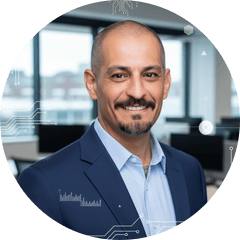
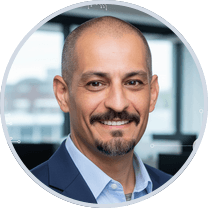
Signature: fix the orange rule, globe alignment and photo crop
Three defects visible in Outlook, all from Word's renderer:

- The 26x2 orange accent arrived as a 14px orange BLOCK. Word wraps a
  background-coloured <td>'s content in a paragraph carrying margin-bottom:6.0pt,
  which inflates the cell. It is now a 99-byte image, which is exact by definition.
- The globe sat far above the wordmark. Word ignores vertical-align in px and falls
  back to baseline, so a 26px image towered over an ~18px cap height. Now 24px with
  align="middle", the HTML4 attribute Word honours, matching how the site centres it.
- The headshot was a loose content-aware crop. Now a head-and-shoulders box read off
  a coordinate grid of the source, 104px instead of 120, with a 2px ring baked into
  the PNG. The ring cannot be a CSS border: Word will not round one, so Outlook would
  have drawn a square border around a circular photo.

Crop boxes are per person. Everyone else keeps content-aware placement until someone
looks at their crop; a box read off Louis's framing is wrong for anyone else.

Title shortened to "Director" at his request.

Claude-Session: https://claude.ai/code/session_012A4PPDyDxtufGjAXjSNXTC

diff --git a/shared/signature-template.html b/shared/signature-template.html
@@ -65,7 +65,7 @@
               <tr>
                 <td style="padding:0 0 8px 0;">
                   <a href="{{BASE}}" class="oa-logo" style="text-decoration:none;border:0;display:inline-block;">
-                    <span class="oa-mark" style="display:inline-block;font-size:26px;line-height:32px;mso-line-height-rule:exactly;font-weight:700;letter-spacing:-0.3px;white-space:nowrap;font-family:'IBM Plex Sans','Segoe UI',Arial,Helvetica,sans-serif;"><span style="color:#ffa634;">One</span><span style="color:#005eaa;">Alg</span><img src="{{ASSETS}}/globe.png" width="26" height="26" alt="o" style="border:0;outline:none;width:26px;height:26px;vertical-align:-5px;"><span style="color:#005eaa;">rithm</span></span>
+                    <span class="oa-mark" style="display:inline-block;font-size:26px;line-height:32px;mso-line-height-rule:exactly;font-weight:700;letter-spacing:-0.3px;white-space:nowrap;font-family:'IBM Plex Sans','Segoe UI',Arial,Helvetica,sans-serif;"><span style="color:#ffa634;">One</span><span style="color:#005eaa;">Alg</span><img src="{{ASSETS}}/globe.png" width="24" height="24" alt="o" align="middle" style="border:0;outline:none;width:24px;height:24px;vertical-align:middle;"><span style="color:#005eaa;">rithm</span></span>
                   </a>
                 </td>
               </tr>
@@ -83,8 +83,8 @@
           <td>
             <table role="presentation" cellpadding="0" cellspacing="0" border="0" style="border-collapse:collapse;">
               <tr>
-                <td width="120" valign="top" style="width:120px;">
-                  <img src="{{ASSETS}}/{{PHOTO}}" width="120" height="120" alt="{{NAME}}" style="display:block;border:0;outline:none;width:120px;height:120px;">
+                <td width="104" valign="top" style="width:104px;">
+                  <img src="{{ASSETS}}/{{PHOTO}}" width="104" height="104" alt="{{NAME}}" style="display:block;border:0;outline:none;width:104px;height:104px;">
                 </td>
                 <td width="18" style="width:18px;font-size:0;line-height:0;">&nbsp;</td>
                 <td valign="top" style="font-family:'IBM Plex Sans','Segoe UI',Arial,Helvetica,sans-serif;">
@@ -92,10 +92,10 @@
                   <div style="font-size:17px;line-height:21px;mso-line-height-rule:exactly;font-weight:600;color:#0d1b2a;letter-spacing:-0.2px;">{{NAME}}</div>
                   <div style="font-size:12px;line-height:17px;mso-line-height-rule:exactly;color:#35485c;padding-top:1px;">{{TITLE}}</div>
 
-                  <!-- the single accent: 26px orange rule -->
-                  <table role="presentation" cellpadding="0" cellspacing="0" border="0" style="border-collapse:collapse;margin:8px 0 8px 0;">
-                    <tr><td width="26" height="2" bgcolor="#ffa634" style="width:26px;height:2px;line-height:2px;font-size:0;background-color:#ffa634;">&nbsp;</td></tr>
-                  </table>
+                  <!-- The single accent. ⛔ An IMAGE, not a bgcolor <td>: Word wraps the
+                       cell content in a paragraph carrying margin-bottom:6.0pt, which turned
+                       this 2px rule into a 14px orange block in Outlook. An img is exact. -->
+                  <div style="padding:8px 0 8px 0;font-size:0;line-height:0;"><img src="{{ASSETS}}/rule.png" width="26" height="2" alt="" style="display:block;border:0;outline:none;width:26px;height:2px;"></div>
 
                   <table role="presentation" cellpadding="0" cellspacing="0" border="0" style="border-collapse:collapse;color:#35485c;">
 {{CONTACT_ROWS}}
